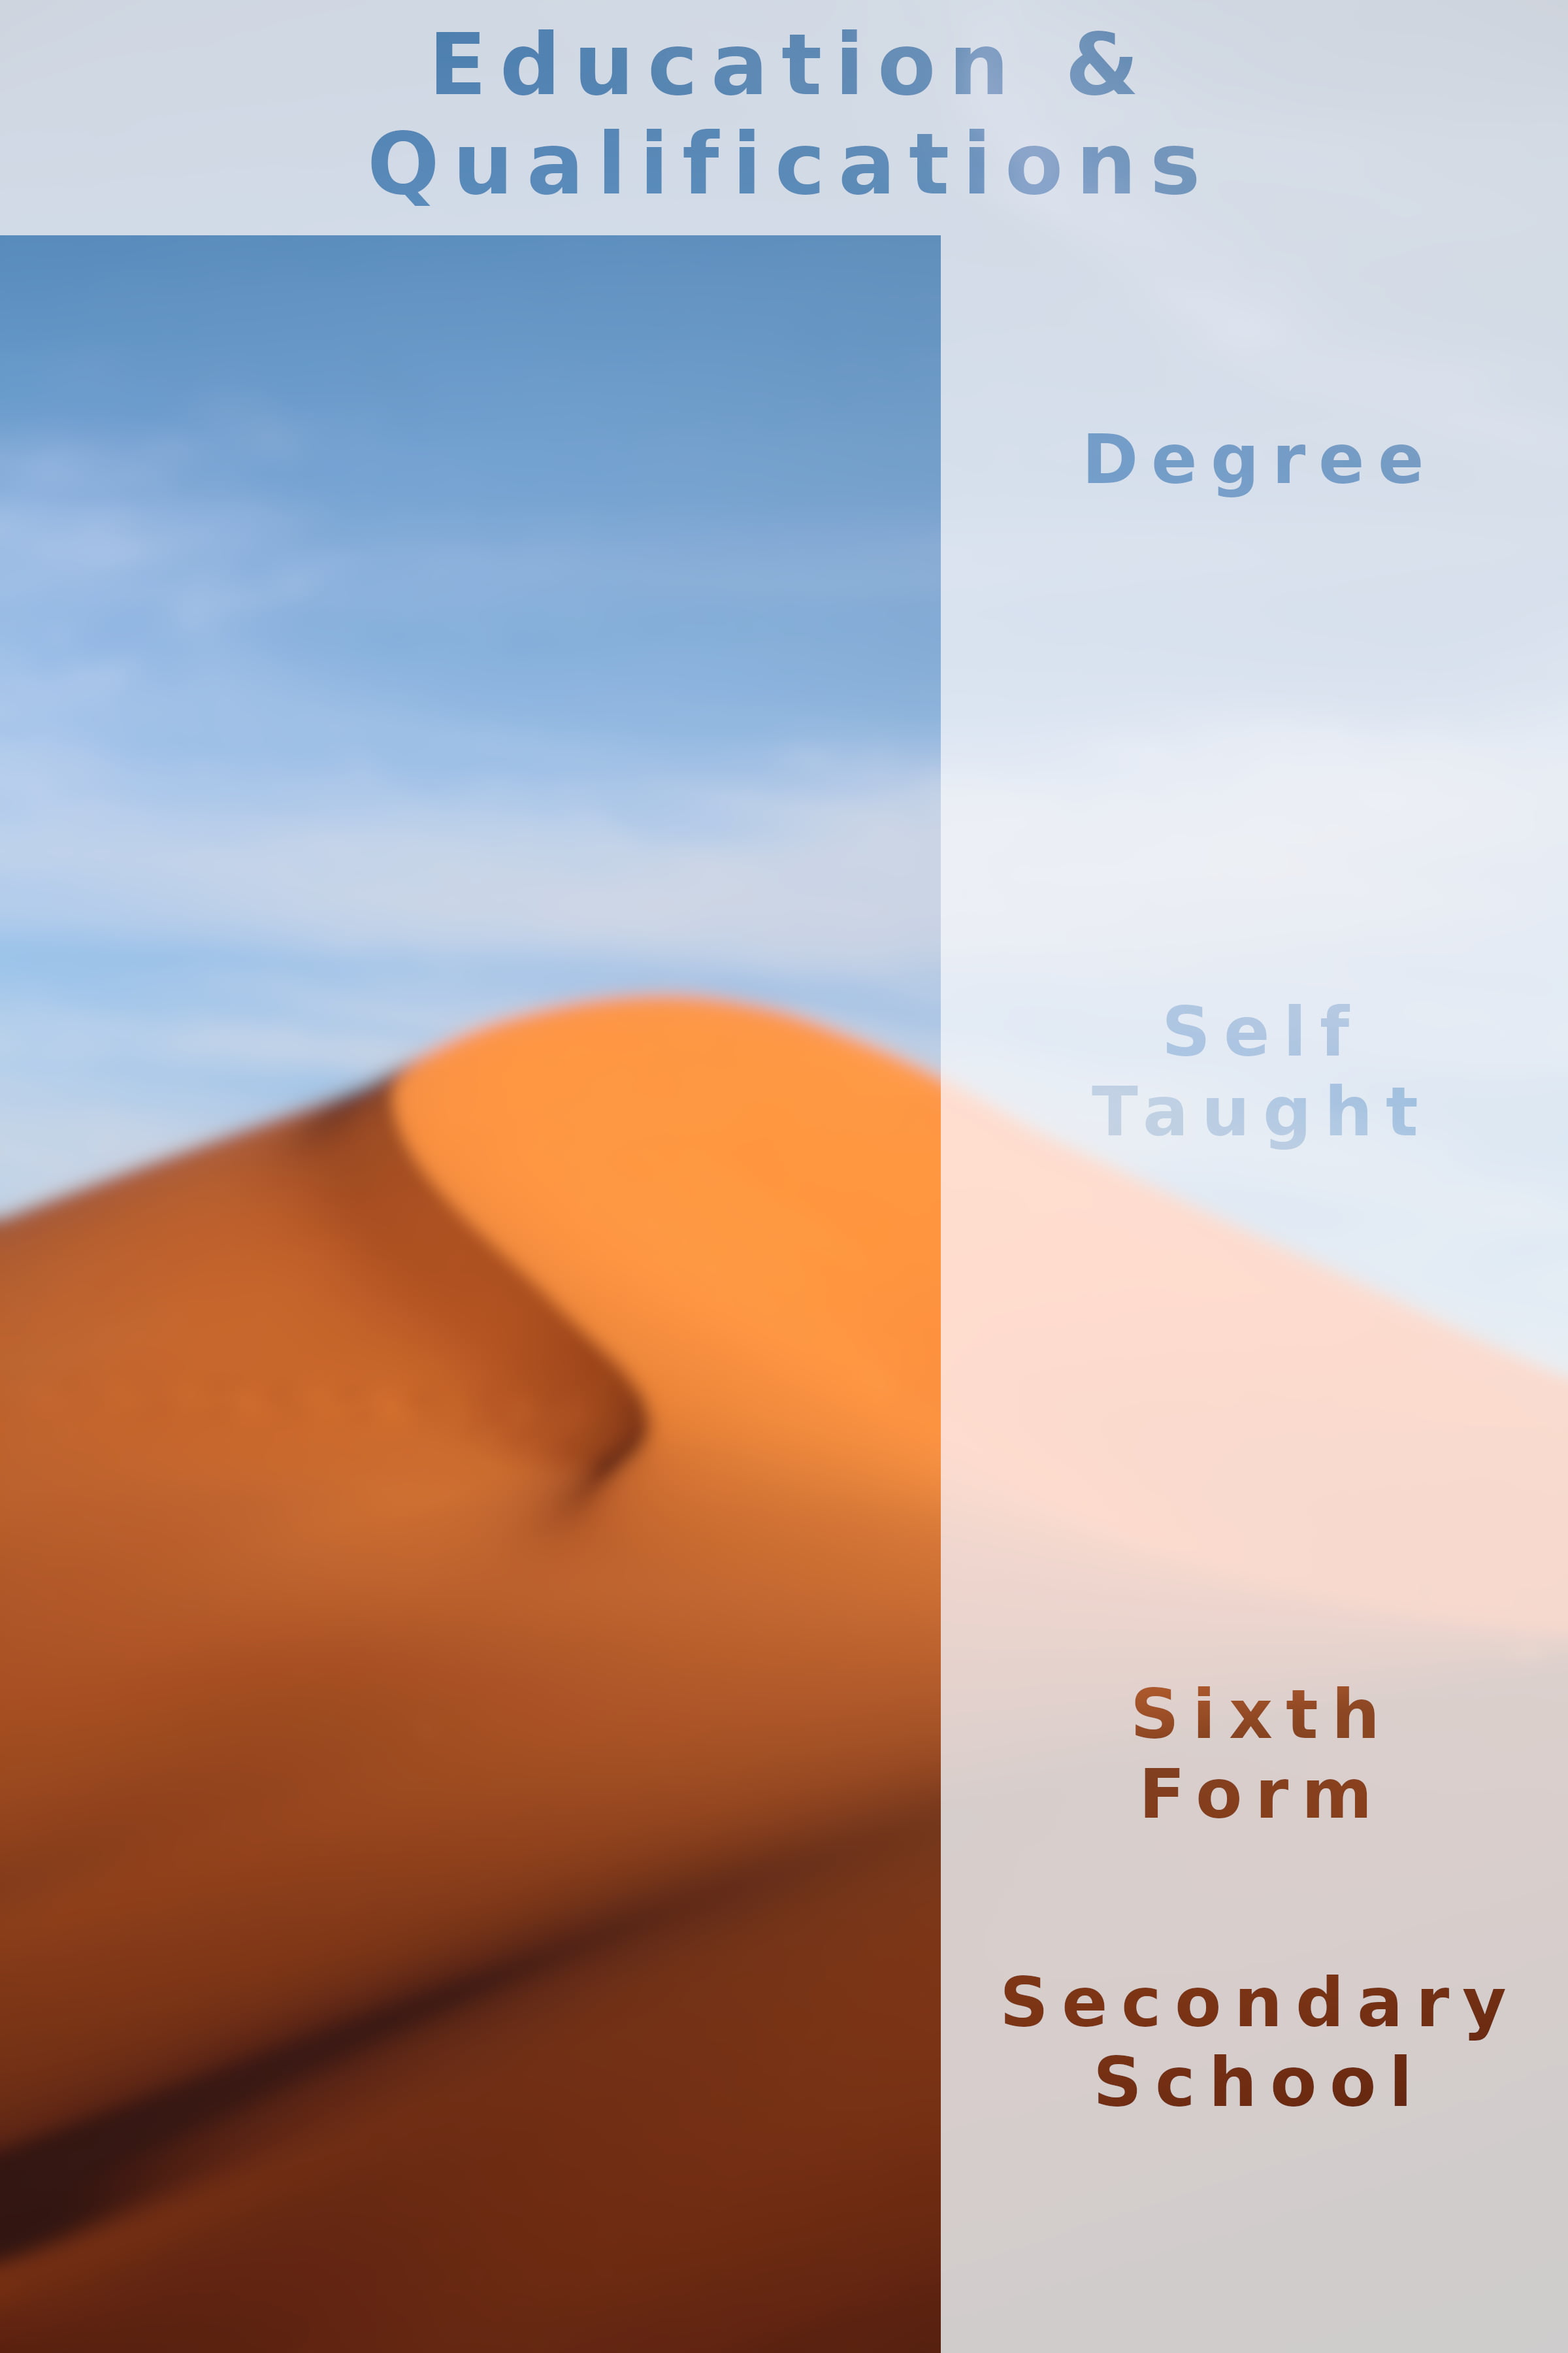
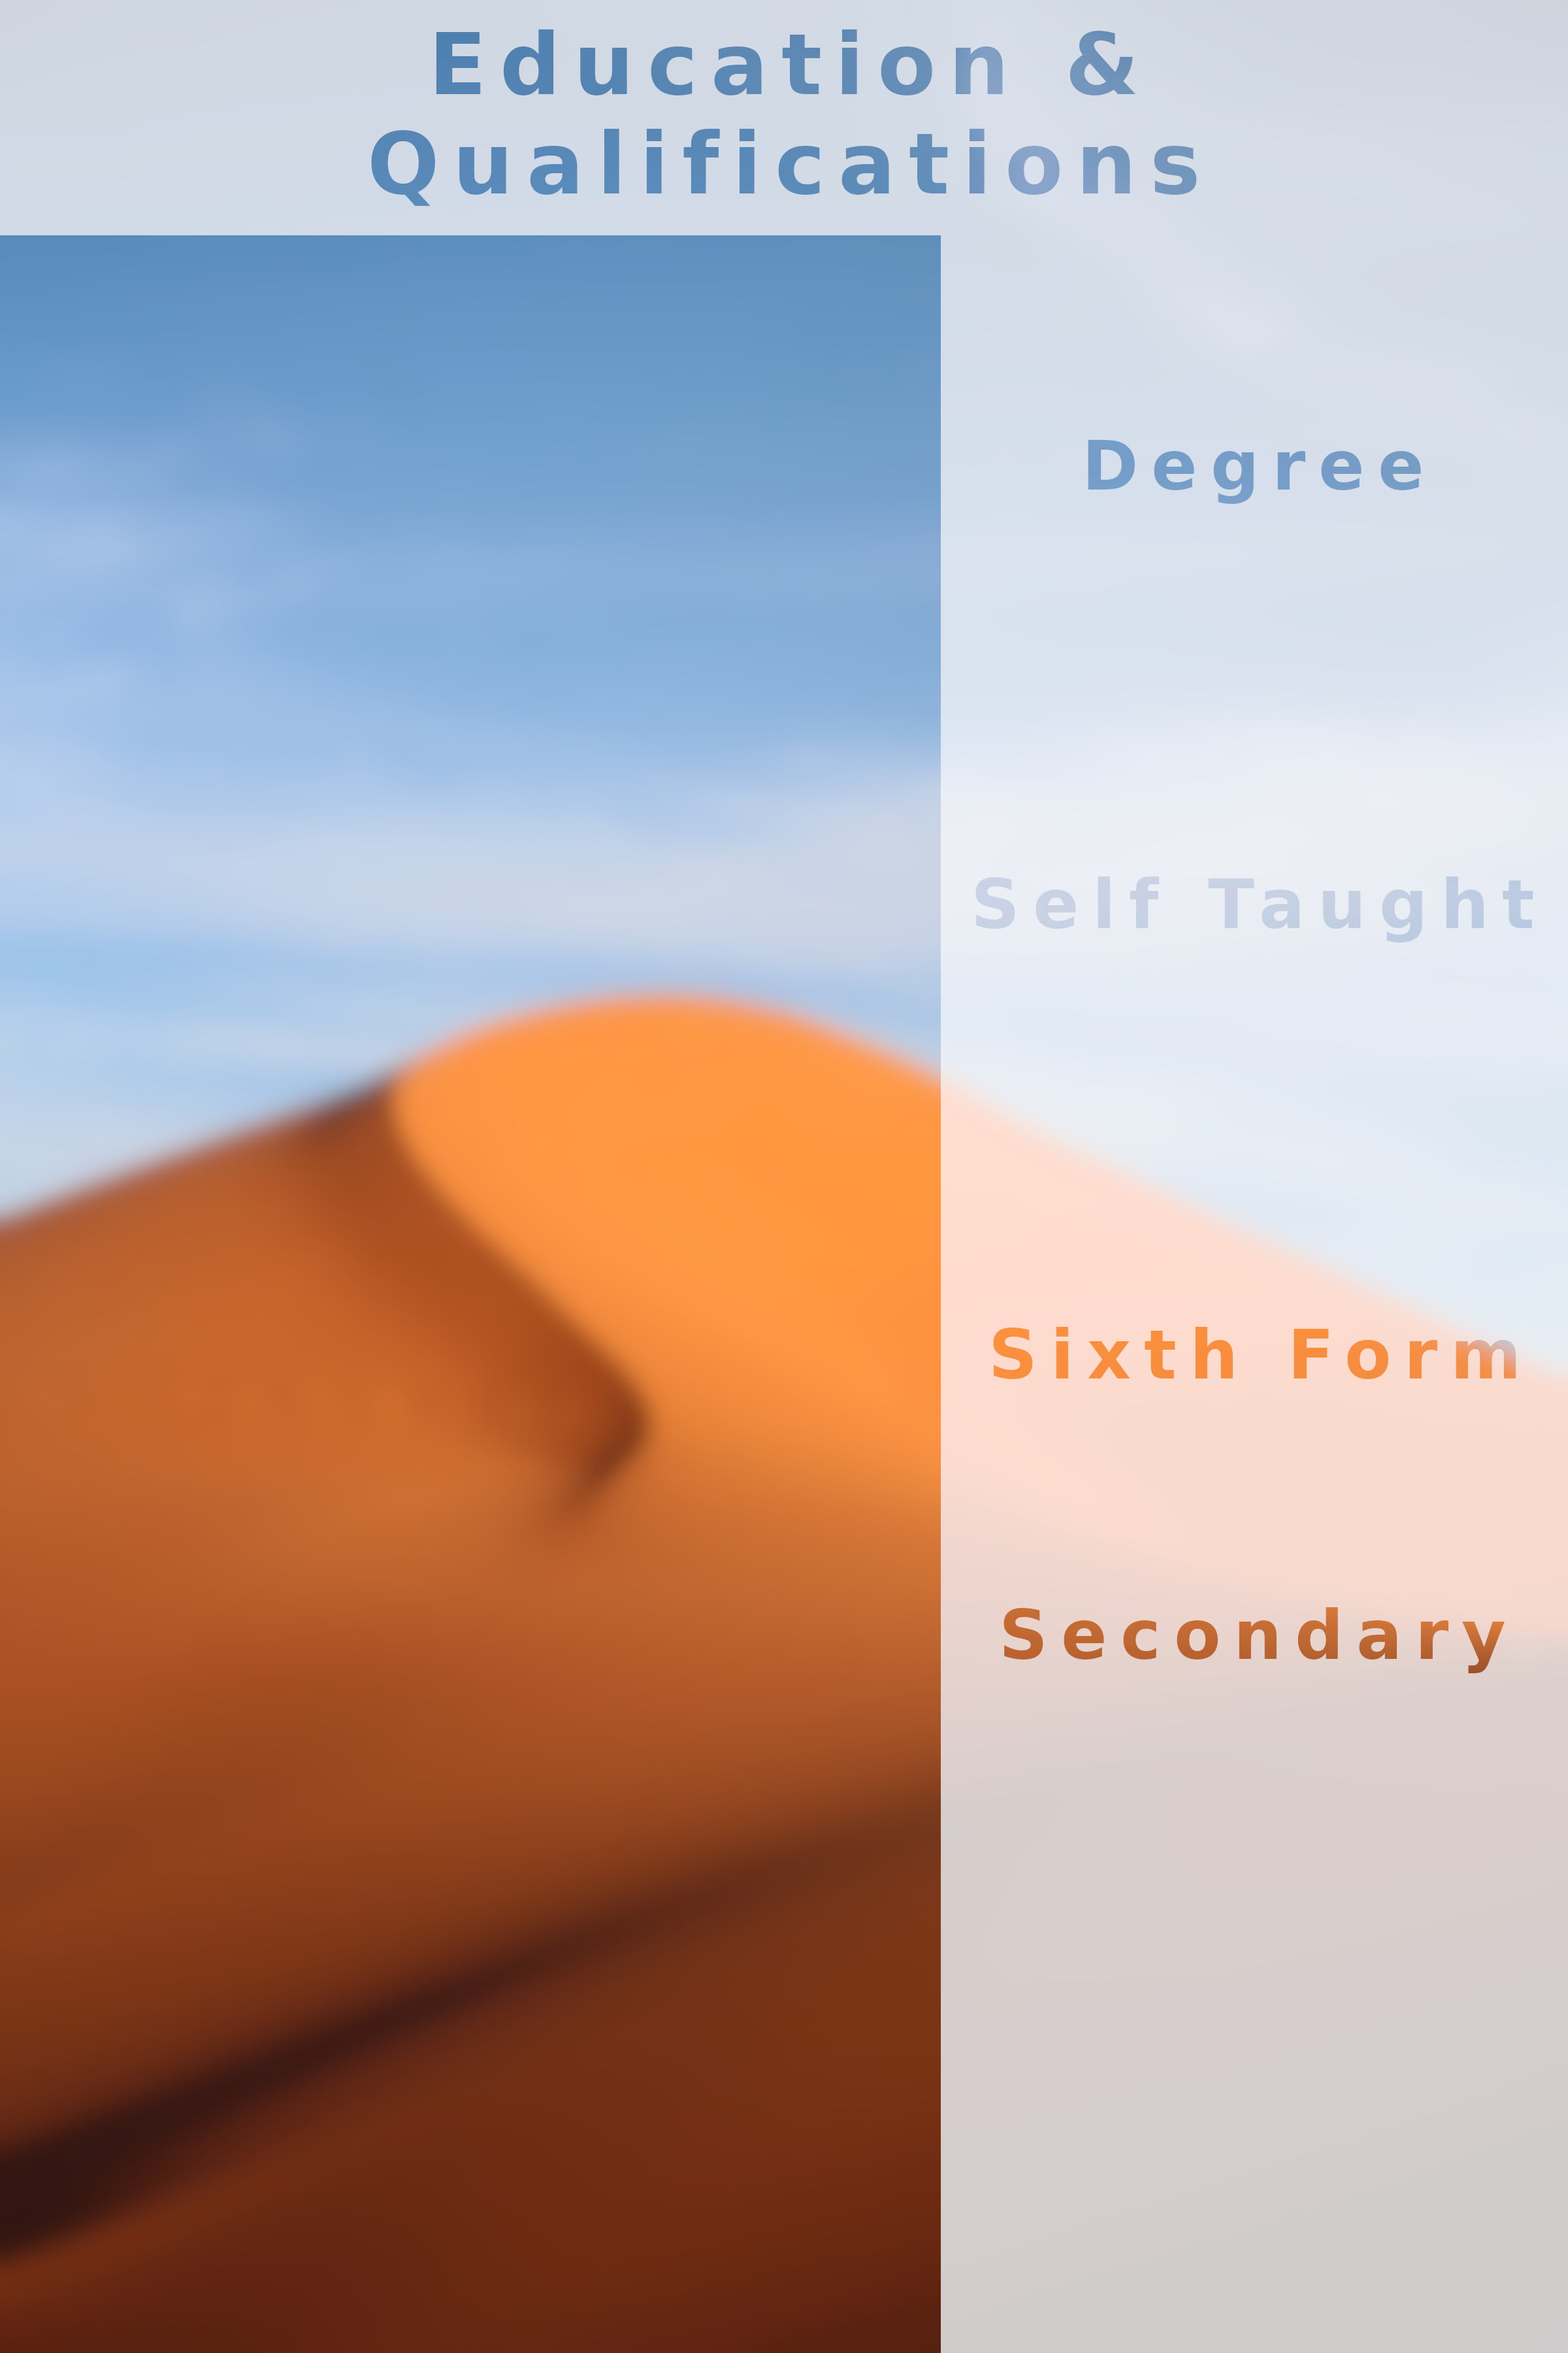
site responsiveness tweaks 4 more to be done

diff --git a/static/css/about.css b/static/css/about.css
@@ -56,8 +56,8 @@ body {
 #education_and_qualification_container {
     padding-right: 41.5%;
     padding-left: 2.5%;
-    padding-top: 25vh;
-    padding-bottom: 5vh;
+    padding-top: 14vw;
+    padding-bottom: 2.5vw;
     background-size: cover;
     display: flex;
     flex-direction: column;
@@ -83,7 +83,7 @@ body {
 }
 
 .subsection_container {
-    margin-bottom: 9.5vh;
+    margin-bottom: 4.5vh;
 }
 
 .paragraph_container {
@@ -110,9 +110,9 @@ body {
     font-size: 1.15vw;
 }
 
-#working_via_github_subsection {
-    margin-top: 11vh;
-    margin-bottom: 11vh;
+#self_taught_subsection {
+    margin-top: 0vh;
+    margin-bottom: 0vh;
 }
 
 h3 {
@@ -208,7 +208,7 @@ h2 {
     }
 
     .subsection_container {
-        margin-bottom: 2vh;
+        margin-bottom: 3.8vw;
     }
 
     .paragraph_container {
@@ -235,8 +235,8 @@ h2 {
     }
 
     #self_taught_subsection {
-        margin-top: 5vh;
-        margin-bottom: 5vh;
+        margin-top: 0vh;
+        margin-bottom: 0vh;
     }
 
     #a-levels_subsection {
